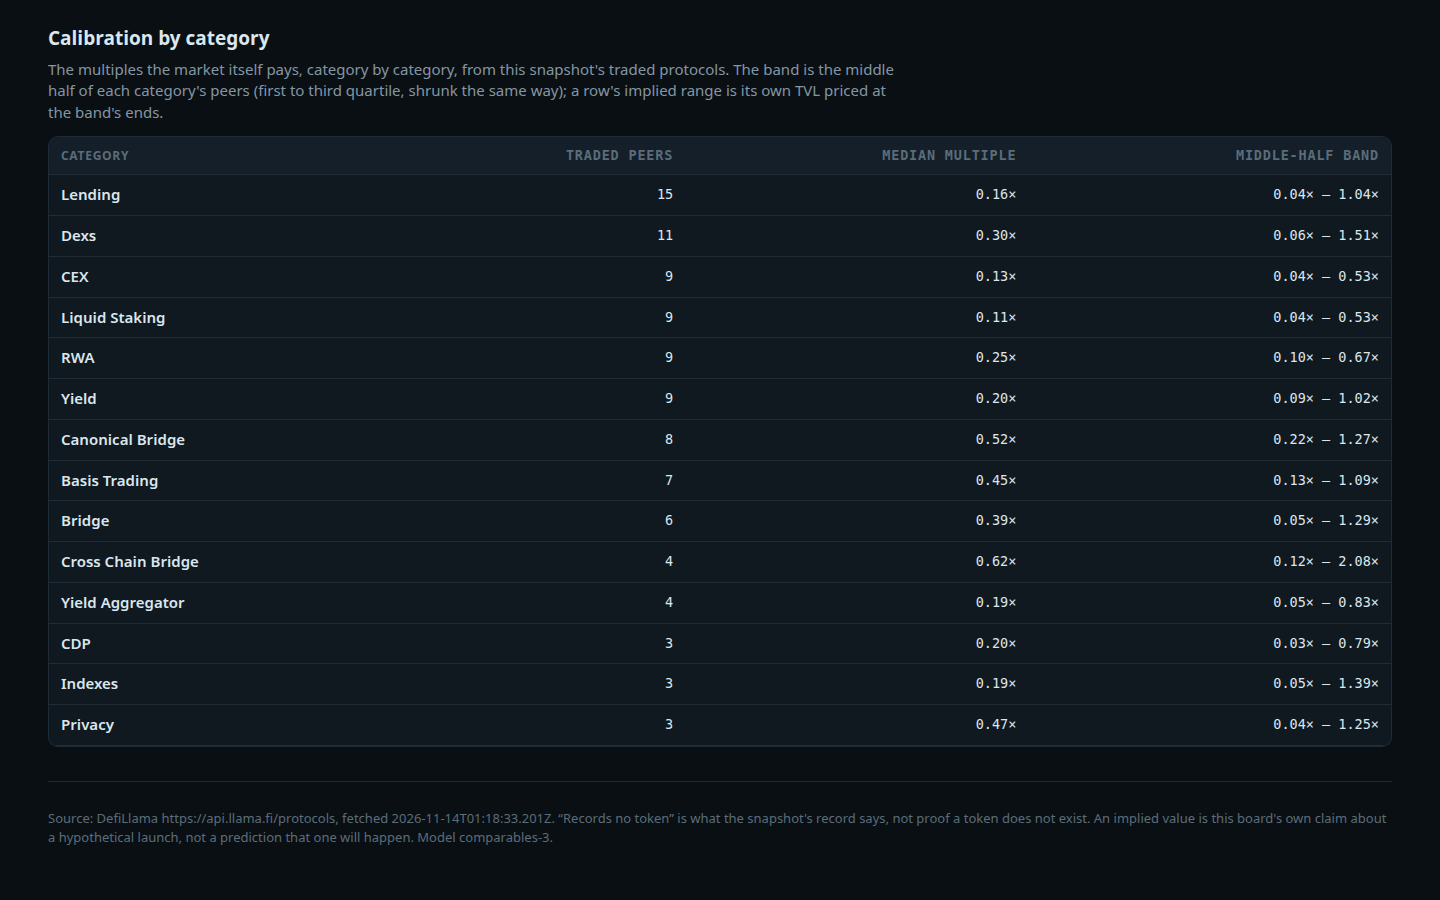
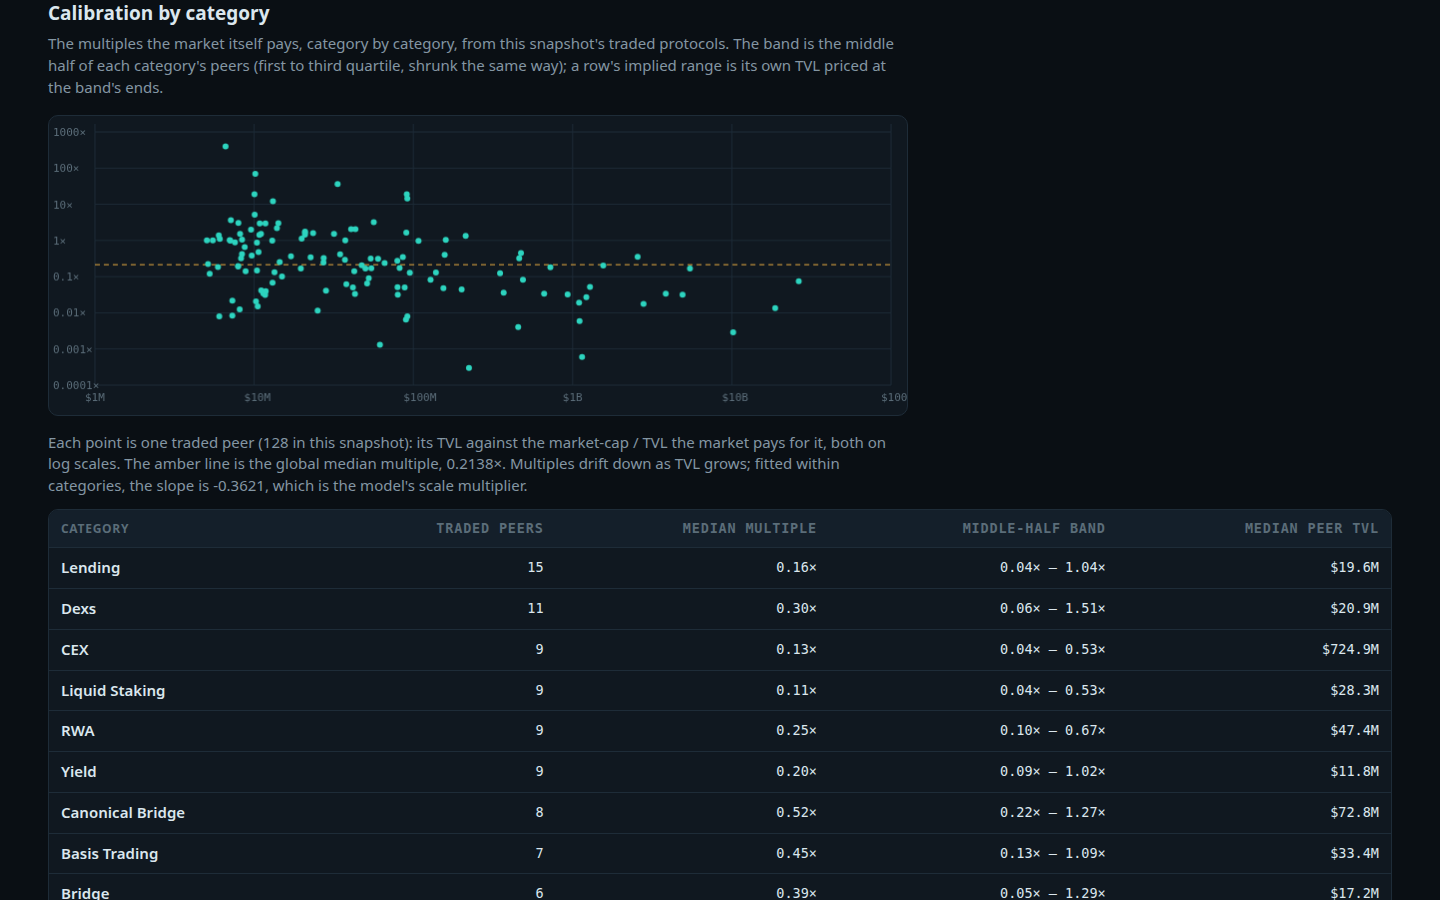
v3: scale elasticity fitted within categories on the traded peers, all-in gas totals in farm plans, calibration scatter and range column

diff --git a/lib/model.ts b/lib/model.ts
@@ -12,7 +12,12 @@
 //   growth             = 1 + clamp(change_7d, -50, 150) / 100 x 0.35   (no report: 1)
 //   maturity           = 0.75 + 0.25 x (1 - exp(-age_days / 540))      (no date: 0.85)
 //   reach              = 1 + 0.02 x min(chains - 1, 4)
-//   implied_value_usd  = round(base x growth x maturity x reach)
+//   scale              = (tvl / category's median peer TVL) ^ beta, clamped to [0.35, 2.5],
+//                        where beta is the within-category log-log slope of multiple on TVL
+//                        fitted on the traded peers themselves (in this snapshot about
+//                        -0.36: a TVL dollar at a category's large end is priced lower
+//                        than at its small end, so market cap grows sub-linearly with TVL)
+//   implied_value_usd  = round(base x growth x maturity x reach x scale)
 //
 // Each row also carries an implied range: the same arithmetic at the category's first and
 // third quartile multiples, so a reader sees the spread of outcomes the peer set supports,
@@ -44,7 +49,7 @@ export interface Snapshot {
   watchlist: string[];
 }
 
-export const MODEL_VERSION = 'comparables-3';
+export const MODEL_VERSION = 'comparables-4';
 export const EARLY_ROWS = 200;
 export const LIVE_ROWS = 30;
 
@@ -59,7 +64,9 @@ export interface Calibration {
   global_multiple: number;
   global_low: number;
   global_high: number;
-  by_category: Map<string, { multiple: number; low: number; high: number; comps: number }>;
+  global_ref_tvl: number;
+  scale_beta: number;
+  by_category: Map<string, { multiple: number; low: number; high: number; comps: number; ref_tvl: number }>;
   traded_count: number;
 }
 
@@ -78,17 +85,53 @@ function quartile(sorted: number[], q: number): number {
 /** The market's price of a TVL dollar, learned from the snapshot's traded protocols. */
 export function calibrate(snapshot: Snapshot): Calibration {
   const all: number[] = [];
+  const allTvl: number[] = [];
   const perCategory = new Map<string, number[]>();
+  const perCategoryTvl = new Map<string, number[]>();
   for (const p of snapshot.protocols) {
     if (p.mcap_usd === null || p.tvl_usd <= 0) continue;
     const ratio = p.mcap_usd / p.tvl_usd;
     if (!Number.isFinite(ratio) || ratio <= 0) continue;
     all.push(ratio);
+    allTvl.push(p.tvl_usd);
     if (p.category !== null) {
       const list = perCategory.get(p.category) ?? [];
       list.push(ratio);
       perCategory.set(p.category, list);
+      const tvls = perCategoryTvl.get(p.category) ?? [];
+      tvls.push(p.tvl_usd);
+      perCategoryTvl.set(p.category, tvls);
     }
+  }
+  // The scale elasticity: how the market's price of a TVL dollar falls as TVL grows *within
+  // the same category*, fitted on the traded peers (each category's points demeaned, then
+  // pooled least squares), clamped so a thin or odd snapshot can never turn it into a size
+  // premium or an absurd discount.
+  let beta = 0;
+  {
+    const byCat = new Map<string, Array<[number, number]>>();
+    for (const p of snapshot.protocols) {
+      if (p.category === null || p.mcap_usd === null || p.tvl_usd <= 0) continue;
+      const ratio = p.mcap_usd / p.tvl_usd;
+      if (!Number.isFinite(ratio) || ratio <= 0) continue;
+      const list = byCat.get(p.category) ?? [];
+      list.push([Math.log10(p.tvl_usd), Math.log10(ratio)]);
+      byCat.set(p.category, list);
+    }
+    let cov = 0;
+    let varx = 0;
+    let used = 0;
+    for (const pts of byCat.values()) {
+      if (pts.length < 3) continue;
+      const mx = pts.reduce((s, pt) => s + pt[0], 0) / pts.length;
+      const my = pts.reduce((s, pt) => s + pt[1], 0) / pts.length;
+      for (const [x, y] of pts) {
+        cov += (x - mx) * (y - my);
+        varx += (x - mx) * (x - mx);
+        used++;
+      }
+    }
+    if (used >= 12 && varx > 0) beta = Math.min(0, Math.max(-0.5, cov / varx));
   }
   const global = all.length > 0 ? median(all) : 0.2;
   const sortedAll = [...all].sort((a, b) => a - b);
@@ -96,7 +139,7 @@ export function calibrate(snapshot: Snapshot): Calibration {
   const globalQ3 = quartile(sortedAll, 0.75);
   const shrinkTo = (center: number, n: number, anchor: number): number =>
     Math.min(MULT_CAP, Math.max(MULT_FLOOR, (n * center + SHRINKAGE * anchor) / (n + SHRINKAGE)));
-  const byCategory = new Map<string, { multiple: number; low: number; high: number; comps: number }>();
+  const byCategory = new Map<string, { multiple: number; low: number; high: number; comps: number; ref_tvl: number }>();
   for (const [category, ratios] of perCategory) {
     const sorted = [...ratios].sort((a, b) => a - b);
     const multiple = shrinkTo(median(ratios), ratios.length, global);
@@ -104,12 +147,14 @@ export function calibrate(snapshot: Snapshot): Calibration {
     // near-identical peers still reports the spread the wider market supports.
     const low = Math.min(multiple, shrinkTo(quartile(sorted, 0.25), ratios.length, globalQ1));
     const high = Math.max(multiple, shrinkTo(quartile(sorted, 0.75), ratios.length, globalQ3));
-    byCategory.set(category, { multiple, low, high, comps: ratios.length });
+    byCategory.set(category, { multiple, low, high, comps: ratios.length, ref_tvl: median(perCategoryTvl.get(category) ?? []) });
   }
   return {
     global_multiple: global,
     global_low: Math.min(global, shrinkTo(globalQ1, all.length, globalQ1)),
     global_high: Math.max(global, shrinkTo(globalQ3, all.length, globalQ3)),
+    global_ref_tvl: allTvl.length > 0 ? median(allTvl) : 1,
+    scale_beta: beta,
     by_category: byCategory,
     traded_count: all.length,
   };
@@ -134,6 +179,7 @@ export interface Score {
   growth_multiplier: number;
   maturity_multiplier: number;
   reach_multiplier: number;
+  scale_multiplier: number;
   age_days: number | null;
 }
 
@@ -149,10 +195,12 @@ export function score(p: SnapshotProtocol, asOf: string, cal: Calibration): Scor
   const age = ageDays(asOf, p.listed_at);
   const maturity = age === null ? 0.85 : 0.75 + 0.25 * (1 - Math.exp(-age / 540));
   const reach = 1 + 0.02 * Math.min(Math.max(p.chains.length - 1, 0), 4);
-  const implied = Math.max(1, Math.round(p.tvl_usd * multiple * growth * maturity * reach));
-  const implied_low = Math.max(1, Math.round(p.tvl_usd * Math.min(lowMult, multiple) * growth * maturity * reach));
-  const implied_high = Math.max(implied, Math.round(p.tvl_usd * Math.max(highMult, multiple) * growth * maturity * reach));
-  return { implied, implied_low, implied_high, multiple, comps, growth_multiplier: growth, maturity_multiplier: maturity, reach_multiplier: reach, age_days: age };
+  const refTvl = cat?.ref_tvl ?? cal.global_ref_tvl;
+  const scale = refTvl > 0 && p.tvl_usd > 0 ? Math.min(2.5, Math.max(0.35, Math.pow(p.tvl_usd / refTvl, cal.scale_beta))) : 1;
+  const implied = Math.max(1, Math.round(p.tvl_usd * multiple * growth * maturity * reach * scale));
+  const implied_low = Math.max(1, Math.round(p.tvl_usd * Math.min(lowMult, multiple) * growth * maturity * reach * scale));
+  const implied_high = Math.max(implied, Math.round(p.tvl_usd * Math.max(highMult, multiple) * growth * maturity * reach * scale));
+  return { implied, implied_low, implied_high, multiple, comps, growth_multiplier: growth, maturity_multiplier: maturity, reach_multiplier: reach, scale_multiplier: scale, age_days: age };
 }
 
 /** Whether the snapshot records no token for a protocol. */
@@ -201,6 +249,7 @@ export interface BoardRow {
     growth_multiplier: number;
     maturity_multiplier: number;
     reach_multiplier: number;
+    scale_multiplier: number;
   };
   farm_steps: string[];
 }
@@ -223,6 +272,13 @@ export interface CalibrationRow {
   multiple: number;
   low: number;
   high: number;
+  ref_tvl: number;
+}
+
+export interface PeerPoint {
+  name: string;
+  tvl_usd: number;
+  multiple: number;
 }
 
 export interface RadarData {
@@ -236,6 +292,8 @@ export interface RadarData {
   board_size: number;
   early_size: number;
   calibration: CalibrationRow[];
+  scale_beta: number;
+  peers: PeerPoint[];
   rows: BoardRow[];
   live: LiveRow[];
 }
@@ -281,6 +339,7 @@ export function buildBoard(snapshot: Snapshot, cal: Calibration): BoardRow[] {
       growth_multiplier: round4(s.growth_multiplier),
       maturity_multiplier: round4(s.maturity_multiplier),
       reach_multiplier: round4(s.reach_multiplier),
+      scale_multiplier: round4(s.scale_multiplier),
     },
     farm_steps: farmSteps(p, s.age_days),
   }));
@@ -293,6 +352,21 @@ function gasUsd(chain: string): string {
   if (['Arbitrum', 'Base', 'Optimism', 'zkSync Era', 'Linea', 'Scroll', 'Mantle', 'Blast', 'Mode', 'Zora'].includes(chain)) return '$0.10-0.50';
   if (['BSC', 'Polygon', 'Avalanche', 'Fantom', 'Gnosis'].includes(chain)) return '$0.05-0.30';
   return 'about $1';
+}
+
+/** A mid estimate of one transaction's gas, for the plan's all-in total. */
+function gasMid(chain: string): number {
+  if (chain === 'Ethereum') return 7;
+  if (chain === 'Solana') return 0.05;
+  if (['Arbitrum', 'Base', 'Optimism', 'zkSync Era', 'Linea', 'Scroll', 'Mantle', 'Blast', 'Mode', 'Zora'].includes(chain)) return 0.3;
+  if (['BSC', 'Polygon', 'Avalanche', 'Fantom', 'Gnosis'].includes(chain)) return 0.15;
+  return 1;
+}
+
+function fmtGasTotal(n: number): string {
+  if (n < 1) return 'under $1';
+  if (n < 10) return `about $${n.toFixed(1)}`;
+  return `about $${Math.round(n)}`;
 }
 
 function capitalFor(tvl: number): number {
@@ -352,8 +426,10 @@ export function farmSteps(p: SnapshotProtocol, age: number | null): string[] {
   const capital = capitalFor(p.tvl_usd);
   const hold = holdDaysFor(age);
   const second = p.chains.length > 1 ? p.chains[1]! : null;
+  const weeks = Math.ceil(hold / 7);
+  const gasTotal = gasMid(chain) * (4 + weeks + 2) + (second !== null ? gasMid(second) * 2 : gasMid(chain));
   const steps = [
-    `Start with a fresh wallet funded only from an exchange withdrawal, holding the $${capital} you plan to farm plus gas money, and use this one wallet for ${p.name} only, so its history stays clean and readable. Cost: ${gas} for the funding transaction on ${chain}. Time: 10 minutes.`,
+    `Start with a fresh wallet funded only from an exchange withdrawal, holding the $${capital} you plan to farm plus gas money, and use this one wallet for ${p.name} only, so its history stays clean and readable. Cost: ${gas} for the funding transaction on ${chain}. Time: 10 minutes. All-in, this whole plan runs ${fmtGasTotal(gasTotal)} of gas over about ${weeks} weeks, separate from the $${capital} of capital at risk.`,
     `${coreAction(p, capital, chain)}. Cost: $${capital} of capital plus ${gas} per transaction in gas. Time: 20 minutes to set up.`,
     second !== null
       ? `In week two, repeat a smaller version of the same action on ${second} (about $${Math.max(10, Math.round(capital / 4))}), because multi-chain users are the cohort protocols most often weight heaviest in a distribution. Cost: ${gasUsd(second)} per transaction on ${second}. Time: 15 minutes.`
@@ -399,8 +475,13 @@ export function buildRadar(snapshot: Snapshot): { board: BoardRow[]; radar: Rada
     board_size: board.length,
     early_size: board.filter((r) => !r.watchlist).length,
     calibration: [...cal.by_category.entries()]
-      .map(([category, v]) => ({ category, comps: v.comps, multiple: round4(v.multiple), low: round4(v.low), high: round4(v.high) }))
+      .map(([category, v]) => ({ category, comps: v.comps, multiple: round4(v.multiple), low: round4(v.low), high: round4(v.high), ref_tvl: Math.round(v.ref_tvl) }))
       .sort((a, b) => b.comps - a.comps || (a.category < b.category ? -1 : 1)),
+    scale_beta: round4(cal.scale_beta),
+    peers: snapshot.protocols
+      .filter((p) => p.mcap_usd !== null && p.tvl_usd > 0 && p.mcap_usd / p.tvl_usd > 0)
+      .map((p) => ({ name: p.name, tvl_usd: p.tvl_usd, multiple: round4(p.mcap_usd! / p.tvl_usd) }))
+      .sort((a, b) => a.tvl_usd - b.tvl_usd || (a.name < b.name ? -1 : 1)),
     rows: board,
     live: liveRows(snapshot),
   };

diff --git a/dashboard/app.js b/dashboard/app.js
@@ -39,9 +39,11 @@ $('stats').innerHTML = [
 $('model-note').innerHTML =
   `<strong>How a value is derived.</strong> Each category's multiple is the median market-cap / TVL of its ` +
   `traded peers in this snapshot (shrunk toward the global median of <code>${R.global_multiple}×</code>), so the market ` +
-  `prices the board, not a guess. Implied value = <code>TVL × peer multiple × growth × maturity × reach</code>, where ` +
-  `growth follows the 7-day TVL change, maturity follows how long the protocol has run with no token, and reach ` +
-  `counts its chains. Each value also carries a range: the same arithmetic at the category's first and third quartile ` +
+  `prices the board, not a guess. Implied value = <code>TVL × peer multiple × growth × maturity × reach × scale</code>, where ` +
+  `growth follows the 7-day TVL change, maturity follows how long the protocol has run with no token, reach ` +
+  `counts its chains, and scale corrects for size: within a category, the traded peers' multiples fall as TVL ` +
+  `grows (fitted slope ${R.scale_beta} on log-log points), so a giant is not priced at a small peer's multiple. ` +
+  `Each value also carries a range: the same arithmetic at the category's first and third quartile ` +
   `multiples, the middle half of what its peers actually get. Open any row for its own arithmetic and farm plan.`;
 
 $('foot-note').textContent =
@@ -96,6 +98,7 @@ function render() {
         <td class="num">${fmtAge(r.age_days)}</td>
         <td class="num">${r.model.multiple.toFixed(2)}×</td>
         <td class="num implied">${fmtUsd(r.implied_value_usd)}</td>
+        <td class="num range-cell">${fmtUsd(r.implied_low_usd)} – ${fmtUsd(r.implied_high_usd)}</td>
       </tr>`,
     )
     .join('');
@@ -175,7 +178,8 @@ function openDetail(slug) {
     ${bar('Growth multiplier — 7-day TVL trend', m.growth_multiplier, `${m.growth_multiplier.toFixed(2)}×`, 1.6, true)}
     ${bar('Maturity multiplier — time running with no token', m.maturity_multiplier, `${m.maturity_multiplier.toFixed(2)}×`, 1)}
     ${bar('Reach multiplier — chains served', m.reach_multiplier, `${m.reach_multiplier.toFixed(2)}×`, 1.1, true)}
-    <p class="formula">${fmtUsd(r.tvl_usd)} × <b>${m.multiple.toFixed(2)}</b> × ${m.growth_multiplier.toFixed(2)} × ${m.maturity_multiplier.toFixed(2)} × ${m.reach_multiplier.toFixed(2)} = <b>${fmtUsd(r.implied_value_usd)}</b></p>
+    ${bar('Scale multiplier — size vs its category\u2019s peers', m.scale_multiplier, `${m.scale_multiplier.toFixed(2)}×`, 2.5)}
+    <p class="formula">${fmtUsd(r.tvl_usd)} × <b>${m.multiple.toFixed(2)}</b> × ${m.growth_multiplier.toFixed(2)} × ${m.maturity_multiplier.toFixed(2)} × ${m.reach_multiplier.toFixed(2)} × ${m.scale_multiplier.toFixed(2)} = <b>${fmtUsd(r.implied_value_usd)}</b></p>
     <h3>Implied range</h3>
     <p class="range-note">Priced at the middle half of its peers' multiples instead of the median: <b>${fmtUsd(r.implied_low_usd)}</b> to <b>${fmtUsd(r.implied_high_usd)}</b>. The marker is the headline value.</p>
     <div class="range" role="img" aria-label="Implied value range ${fmtUsd(r.implied_low_usd)} to ${fmtUsd(r.implied_high_usd)}, headline ${fmtUsd(r.implied_value_usd)}">
@@ -230,8 +234,55 @@ $('calib-rows').innerHTML = R.calibration
       <td class="num">${c.comps}</td>
       <td class="num">${c.multiple.toFixed(2)}×</td>
       <td class="num">${c.low.toFixed(2)}× – ${c.high.toFixed(2)}×</td>
+      <td class="num">${fmtUsd(c.ref_tvl)}</td>
     </tr>`,
   )
   .join('');
+
+// ---- the calibration scatter -------------------------------------------------------------
+// Every traded peer as a point: TVL (log) against the multiple the market pays for it (log).
+// The downward drift is the scale effect the model fits within each category.
+{
+  const cv = $('scatter');
+  const ctx = cv.getContext('2d');
+  const W = cv.width;
+  const H = cv.height;
+  const pts = R.peers.filter((p) => p.tvl_usd > 0 && p.multiple > 0);
+  const xs = pts.map((p) => Math.log10(p.tvl_usd));
+  const ys = pts.map((p) => Math.log10(p.multiple));
+  const x0 = Math.floor(Math.min(...xs));
+  const x1 = Math.ceil(Math.max(...xs));
+  const y0 = Math.floor(Math.min(...ys));
+  const y1 = Math.ceil(Math.max(...ys));
+  const px = (x) => 46 + ((x - x0) / (x1 - x0)) * (W - 62);
+  const py = (y) => H - 30 - ((y - y0) / (y1 - y0)) * (H - 46);
+  ctx.strokeStyle = '#1e2c38';
+  ctx.fillStyle = '#5b6d79';
+  ctx.font = '11px ui-monospace, monospace';
+  for (let gx = x0; gx <= x1; gx++) {
+    ctx.beginPath(); ctx.moveTo(px(gx), 8); ctx.lineTo(px(gx), H - 30); ctx.stroke();
+    const label = gx >= 9 ? `$${Math.pow(10, gx - 9)}B` : gx >= 6 ? `$${Math.pow(10, gx - 6)}M` : `$${Math.pow(10, gx - 3)}K`;
+    ctx.fillText(label, px(gx) - 10, H - 14);
+  }
+  for (let gy = y0; gy <= y1; gy++) {
+    ctx.beginPath(); ctx.moveTo(46, py(gy)); ctx.lineTo(W - 16, py(gy)); ctx.stroke();
+    ctx.fillText(`${gy >= 0 ? Math.pow(10, gy).toFixed(0) : Math.pow(10, gy).toFixed(-gy)}×`, 4, py(gy) + 4);
+  }
+  const medY = py(Math.log10(R.global_multiple));
+  ctx.strokeStyle = '#f5b544';
+  ctx.setLineDash([5, 4]);
+  ctx.beginPath(); ctx.moveTo(46, medY); ctx.lineTo(W - 16, medY); ctx.stroke();
+  ctx.setLineDash([]);
+  ctx.fillStyle = '#2dd4bf';
+  for (const p of pts) {
+    ctx.beginPath();
+    ctx.arc(px(Math.log10(p.tvl_usd)), py(Math.log10(p.multiple)), 3, 0, Math.PI * 2);
+    ctx.fill();
+  }
+  $('scatter-note').textContent =
+    `Each point is one traded peer (${pts.length} in this snapshot): its TVL against the market-cap / TVL the market pays for it, both on log scales. ` +
+    `The amber line is the global median multiple, ${R.global_multiple}×. Multiples drift down as TVL grows; fitted within categories, the slope is ${R.scale_beta}, ` +
+    `which is the model's scale multiplier.`;
+}
 
 render();

diff --git a/dashboard/index.html b/dashboard/index.html
@@ -66,6 +66,7 @@
         <th data-sort="age_days" class="num">Age</th>
         <th data-sort="multiple" class="num">Peer multiple</th>
         <th data-sort="implied_value_usd" class="num">Implied value</th>
+        <th class="num">Implied range</th>
       </tr></thead>
       <tbody id="rows"></tbody>
     </table>
@@ -84,9 +85,11 @@
   <section class="live calib" aria-label="Calibration by category">
     <h2>Calibration by category</h2>
     <p class="live-note">The multiples the market itself pays, category by category, from this snapshot's traded protocols. The band is the middle half of each category's peers (first to third quartile, shrunk the same way); a row's implied range is its own TVL priced at the band's ends.</p>
+    <canvas id="scatter" width="860" height="300" aria-label="Scatter of traded peers: TVL against market cap to TVL multiple, log scales"></canvas>
+    <p class="live-note" id="scatter-note"></p>
     <div class="table-wrap">
       <table id="calib-table">
-        <thead><tr><th>Category</th><th class="num">Traded peers</th><th class="num">Median multiple</th><th class="num">Middle-half band</th></tr></thead>
+        <thead><tr><th>Category</th><th class="num">Traded peers</th><th class="num">Median multiple</th><th class="num">Middle-half band</th><th class="num">Median peer TVL</th></tr></thead>
         <tbody id="calib-rows"></tbody>
       </table>
     </div>

diff --git a/dashboard/app.css b/dashboard/app.css
@@ -79,6 +79,9 @@ tbody tr:focus-visible { outline: 2px solid var(--accent); outline-offset: -2px;
 .up { color: var(--green); } .down { color: var(--red); }
 .implied { color: var(--accent); font-weight: 600; }
 
+.range-cell { color: var(--muted); font-size: 12.5px; }
+#scatter { width: 100%; max-width: 860px; height: auto; background: var(--panel); border: 1px solid var(--line); border-radius: var(--radius); margin: 4px 0 10px; }
+
 .movers { margin: 24px 0 4px; }
 .movers h2 { font-size: 15px; text-transform: uppercase; letter-spacing: .06em; color: var(--faint); margin-bottom: 10px; }
 .mover-row { display: flex; gap: 10px; flex-wrap: wrap; }

diff --git a/README.md b/README.md
@@ -22,7 +22,13 @@ implied value      = TVL x multiple x growth x maturity x reach
   growth   = 1 + clamp(7-day TVL change, -50%, +150%) x 0.35
   maturity = 0.75 + 0.25 x (1 - exp(-age in days / 540))   (no listing date: 0.85)
   reach    = 1 + 0.02 x min(chains - 1, 4)
+  scale    = (TVL / category's median peer TVL) ^ beta, clamped to [0.35, 2.5]
 ```
+
+The scale term exists because the snapshot's own peers demand it: within a category, the
+multiple the market pays falls as TVL grows (the fitted within-category log-log slope is
+about −0.36), so market cap grows sub-linearly with TVL and a $2B protocol must not be
+priced at a $12M peer's multiple. Beta is fitted on the snapshot, never hard-coded.
 
 No protocol name is special-cased. The board covers every protocol on the snapshot's
 watchlist and adds the strongest early finds below the $50M floor, excluding wrapped,
